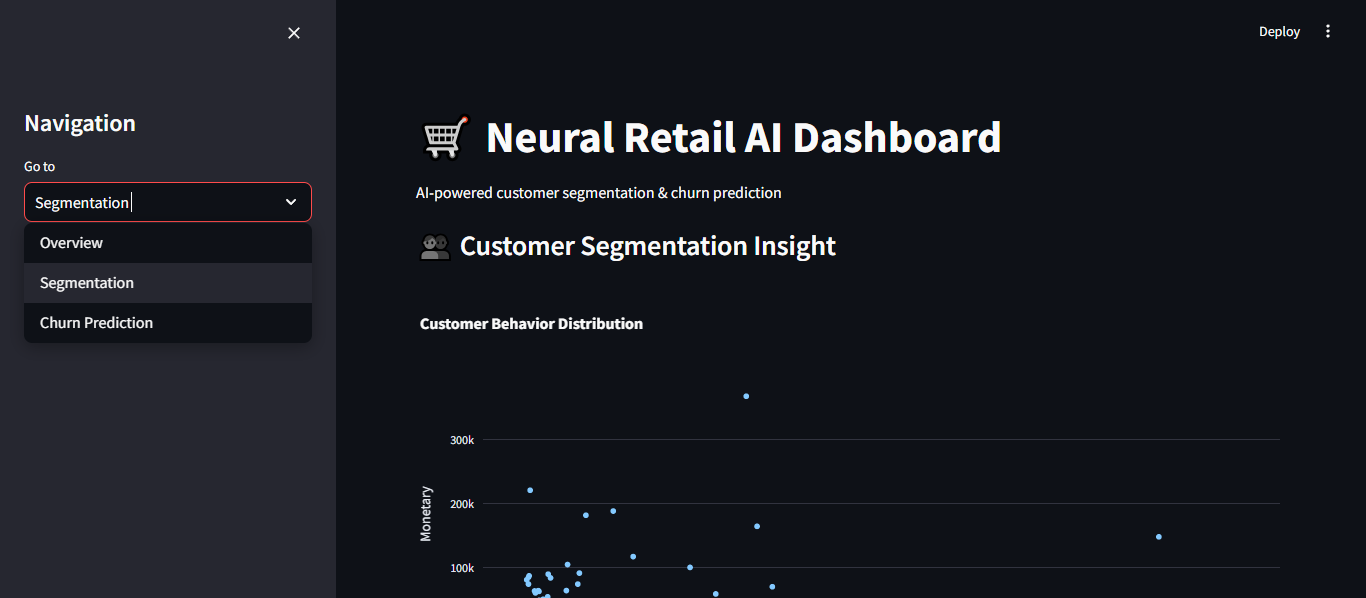
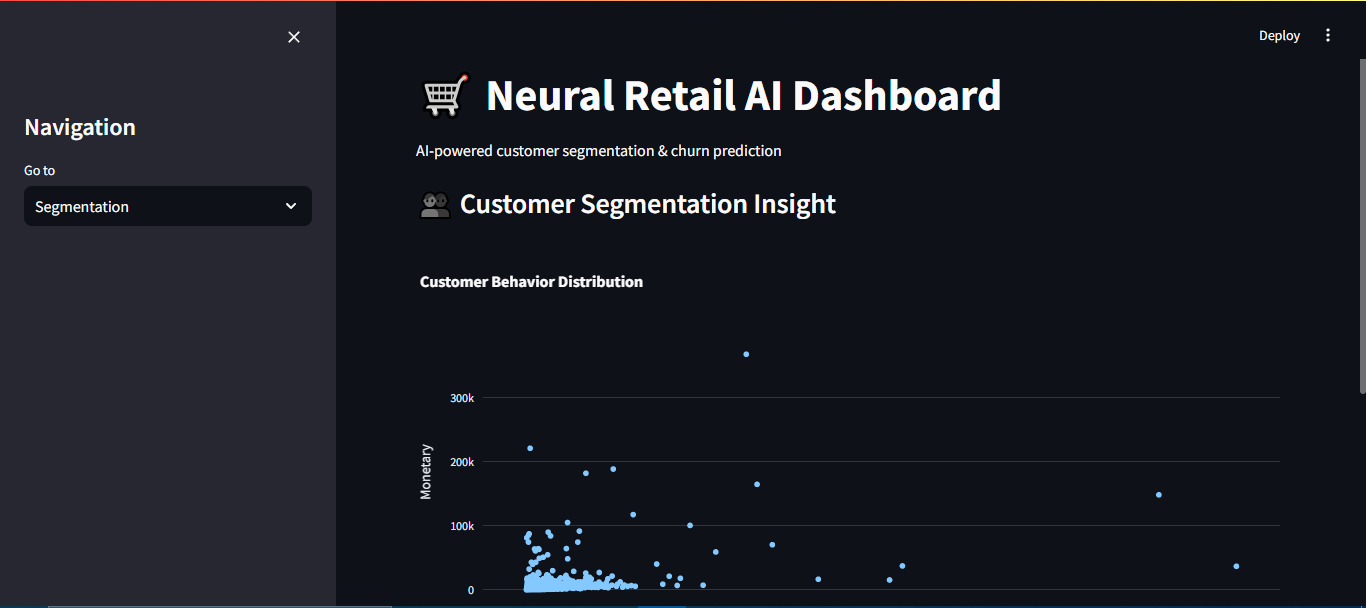
Updated README file

diff --git a/README.md b/README.md
@@ -136,7 +136,7 @@ streamlit run app.py
 
 ### 👥 Segmentation
 <p align="center">
-  <img src="assets/images/dashboard.png" width="700"/>
+  <img src="assets/images/segmentation.png" width="700"/>
 </p>
 
 ### 🔮 Churn Prediction